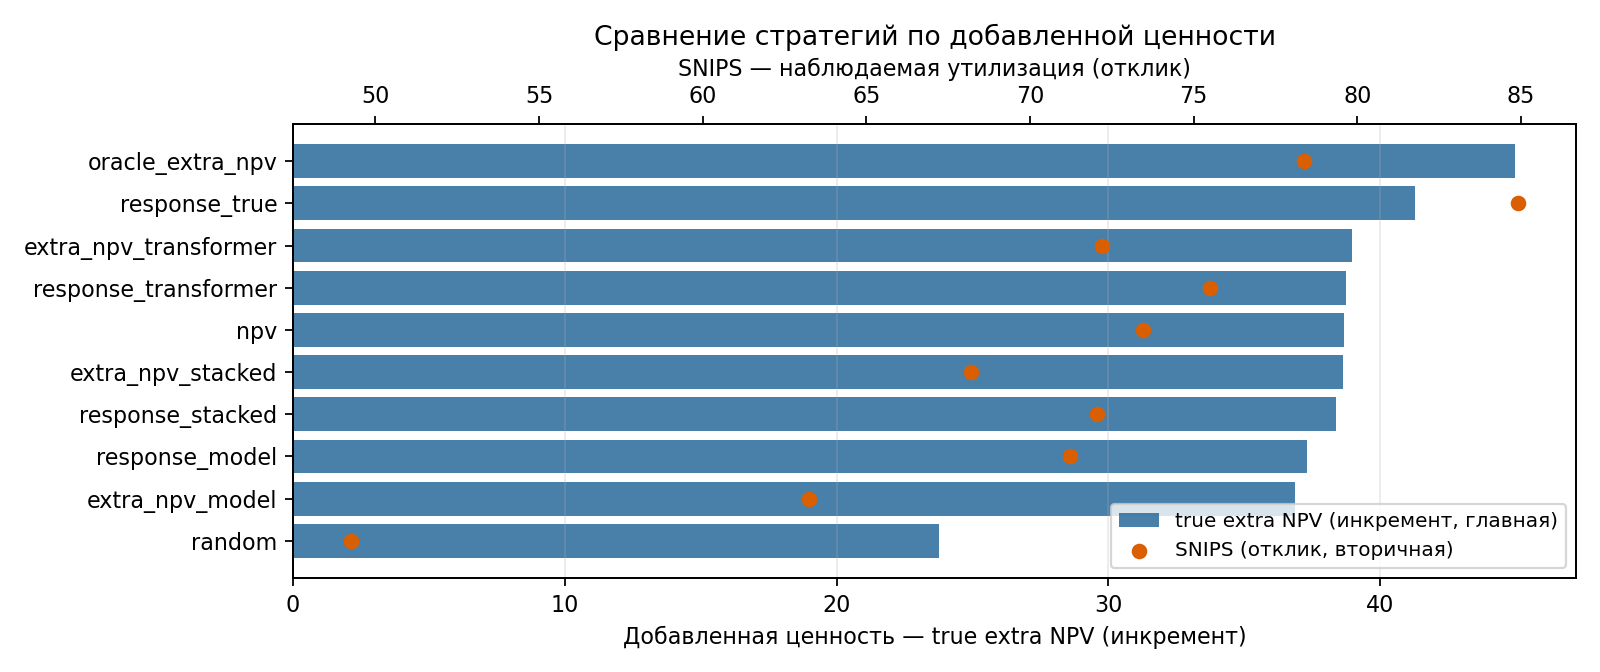
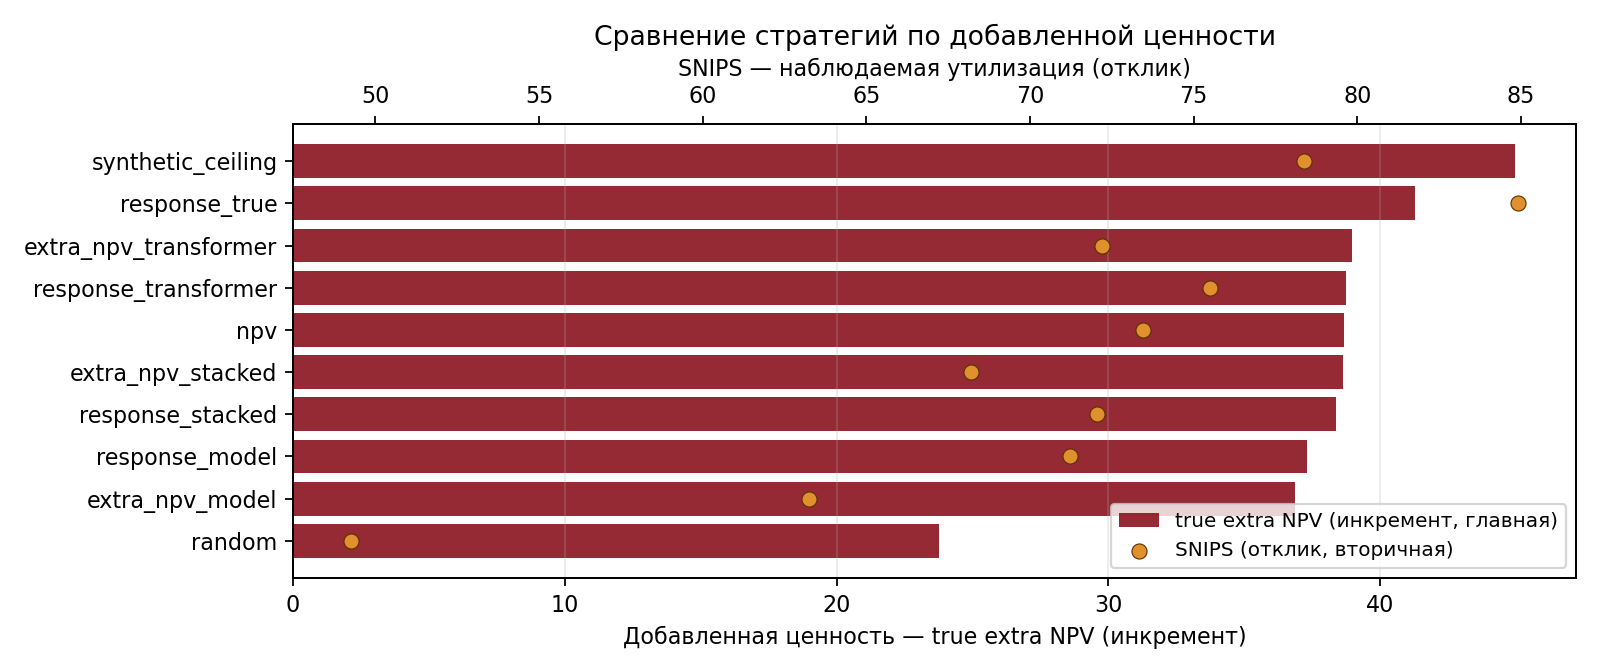
Add presentaion, calivration tests, bug fixes

diff --git a/tests/test_calibration.py b/tests/test_calibration.py
@@ -1,0 +1,63 @@
+"""Прямой юнит-тест на stacking-калибровку.
+
+Проверяет, что `calibrate_stacked_scores` — это настоящая per-arm Platt-калибровка:
+она подбирает отображение по калибровочному срезу и реально меняет прогнозы, а не
+возвращает их как есть.
+"""
+
+import numpy as np
+import pandas as pd
+
+from utils.models import calibrate_stacked_scores
+
+
+def _make_scored(n_calib: int = 200, n_test: int = 200, seed: int = 0) -> pd.DataFrame:
+    rng = np.random.default_rng(seed)
+    n = n_calib + n_test
+    shown = np.array(([True] * (n_calib // 2) + [False] * (n_calib // 2))
+                     + ([True] * (n_test // 2) + [False] * (n_test // 2)))
+    p1 = rng.uniform(0.2, 0.8, n)
+    p0 = rng.uniform(0.1, 0.6, n)
+    # факт утилизации коррелирует с прогнозом (обе головы имеют оба класса на calib)
+    utilized = np.where(shown, (p1 > 0.5).astype(int), (p0 > 0.35).astype(int))
+    return pd.DataFrame(
+        {
+            "split": ["calib"] * n_calib + ["test"] * n_test,
+            "shown": shown,
+            "is_available": True,
+            "utilized": utilized,
+            "stacked_p1_hat": p1,
+            "stacked_p0_hat": p0,
+            "stacked_p_util_hat": p1,
+        }
+    )
+
+
+def test_calibration_changes_scores() -> None:
+    scored = _make_scored()
+    out = calibrate_stacked_scores(scored)
+    # калибровка реально меняет прогнозы обеих голов (не no-op и не ансамбль-заглушка)
+    assert not np.allclose(out["stacked_p1_hat"].to_numpy(), scored["stacked_p1_hat"].to_numpy())
+    assert not np.allclose(out["stacked_p0_hat"].to_numpy(), scored["stacked_p0_hat"].to_numpy())
+
+
+def test_calibration_outputs_valid_probabilities_and_uplift() -> None:
+    scored = _make_scored()
+    out = calibrate_stacked_scores(scored)
+    assert out["stacked_p1_hat"].between(0.0, 1.0).all()
+    assert out["stacked_p0_hat"].between(0.0, 1.0).all()
+    # uplift пересчитан как разность откалиброванных голов
+    assert np.allclose(
+        out["stacked_uplift_hat"].to_numpy(),
+        (out["stacked_p1_hat"] - out["stacked_p0_hat"]).to_numpy(),
+    )
+    # p_util совпадает с откалиброванной головой показа
+    assert np.allclose(out["stacked_p_util_hat"].to_numpy(), out["stacked_p1_hat"].to_numpy())
+
+
+def test_calibration_noop_without_calib_split() -> None:
+    scored = _make_scored()
+    scored["split"] = "test"  # нет ни одного среза из calib_splits
+    out = calibrate_stacked_scores(scored)
+    # без калибровочного среза функция ничего не меняет
+    assert np.allclose(out["stacked_p1_hat"].to_numpy(), scored["stacked_p1_hat"].to_numpy())

diff --git a/tests/test_pipeline.py b/tests/test_pipeline.py
@@ -37,7 +37,7 @@ def test_synthetic_generator_contract() -> None:
     assert checks["no_future_events_in_history"]
     assert checks["fixed_sequence_length"]
     assert checks["non_negative_recency_bucket"]
-    assert checks["oracle_has_signal"]
+    assert checks["ceiling_has_signal"]
 
 
 def test_greedy_policies_use_unique_groups() -> None:
@@ -86,7 +86,7 @@ def test_policy_evaluation_returns_core_metrics() -> None:
     assert {"ips_value", "snips_value", "dr_value", "ess", "matched_rows", "true_extra_npv_value"}.issubset(
         result.columns
     )
-    assert set(result["policy_name"]) == {"random", "npv", "response_true", "oracle_extra_npv"}
+    assert set(result["policy_name"]) == {"random", "npv", "response_true", "synthetic_ceiling"}
     assert (result["matched_rows"] > 0).all()
     assert (result["ess"] > 0).all()
 
@@ -188,8 +188,8 @@ def test_default_seed_policy_sanity_on_test_split() -> None:
     evaluation = result["evaluation"]
 
     random_true = float(evaluation.loc[evaluation["policy_name"] == "random", "true_extra_npv_value"].iloc[0])
-    oracle_true = float(
-        evaluation.loc[evaluation["policy_name"] == "oracle_extra_npv", "true_extra_npv_value"].iloc[0]
+    ceiling_true = float(
+        evaluation.loc[evaluation["policy_name"] == "synthetic_ceiling", "true_extra_npv_value"].iloc[0]
     )
     model_true = evaluation.loc[
         evaluation["policy_name"].isin(
@@ -205,7 +205,7 @@ def test_default_seed_policy_sanity_on_test_split() -> None:
         "true_extra_npv_value",
     ]
 
-    assert oracle_true == evaluation["true_extra_npv_value"].max()
+    assert ceiling_true == evaluation["true_extra_npv_value"].max()
     assert model_true.max() > random_true * 1.35
     assert "evaluation_all" in result
     assert result["evaluation"]["policy_name"].nunique() == result["evaluation_all"]["policy_name"].nunique()

diff --git a/article/crosssell_extra_npv_public.tex b/article/crosssell_extra_npv_public.tex
@@ -138,7 +138,7 @@ extra\_NPV_{ik}=
 
 \textbf{Исходные модели вероятности утилизации.} В модельном контуре есть три уровня. Градиентный бустинг обучается на табличной витрине: агрегированных признаках пары пользователь--категория, частотах и давностях событий, истории взаимодействий, признаках категории и клиента. Он устойчив на табличных данных и дает сильную базовую точку сравнения.
 
-Вторая модель, нейросетевая ранжирующая модель на базе трансформера, близка к two-tower архитектуре. Левая часть строит представление пользователя по последовательности событий: $h_i=\mathrm{Transformer}_\theta(events_i)$. Правая часть строит представление действия: для обычного прогноза это категория, а для uplift это пара ``категория--показ'', то есть эмбеддинг действия содержит и категорию $k$, и индикатор $z$. Выходная MLP-голова оценивает вероятность утилизации:
+Вторая модель, нейросетевая ранжирующая модель на базе BERT-like transformer encoder, близка к two-tower архитектуре. Левая часть строит представление пользователя по последовательности событий: $h_i=E_\theta(events_i)$. Правая часть строит представление действия: для обычного прогноза это категория, а для uplift это пара ``категория--показ'', то есть эмбеддинг действия содержит и категорию $k$, и индикатор $z$. Выходная MLP-голова оценивает вероятность утилизации:
 \[
 \hat p^{tr}_{ikz}=
 \sigm\!\left(G_\theta\left[h_i,a_{kz},h_i\odot a_{kz},|h_i-a_{kz}|\right]\right).
@@ -147,7 +147,7 @@ extra\_NPV_{ik}=
 
 \textbf{Uplift и гибридная модель.} Оценка uplift опирается на случайную раздачу, которая проводится каждый месяц на части аудитории внутри допустимого набора категорий и сохраняет те же ограничения, что и рабочая раздача. После запуска проверяются баланс предраздаточных признаков, доли назначений по категориям и группам, а также способность простой модели предсказывать факт показа по признакам до раздачи: $\AUC(\hat z(x_i))\approx 0.5$.
 
-На логах такой раздачи обучается S-learner: модель получает признаки пары пользователь--категория и индикатор показа $z$, а таргетом остается факт утилизации. Гибридная модель не заменяет трансформер, а добавляет его прогноз как признак в итоговый бустинг вместе с табличными признаками и индикатором показа. Для одной пары пользователь--категория модель запускается при $z=1$ и $z=0$; разность прогнозов формирует uplift и extra NPV:
+На логах такой раздачи обучается S-learner: модель получает признаки пары пользователь--категория и индикатор показа $z$, а таргетом остается факт утилизации. Гибридная модель не заменяет трансформер, а добавляет его прогноз как признак в итоговый бустинг вместе с табличными признаками и индикатором показа. Для одной пары пользователь--категория модель запускается при $z=1$ и $z=0$; разность прогнозов формирует uplift, а после умножения на NPV получается extra NPV:
 \[
 \hat\tau_{ik}=\hat p^{hyb}_{ik,1}-\hat p^{hyb}_{ik,0},
 \qquad
@@ -167,7 +167,7 @@ extra\_NPV_{ik}=\NPV_k\hat\tau_{ik}.
 \]
 Здесь $y_i$ обозначает наблюдаемый результат: утилизацию или нормированную ценность. Если раздача строится последовательно по слотам, вероятность набора восстанавливается из условных вероятностей назначений. Дополнительно считаются нормированная IPS-оценка, эффективный размер выборки, число совпадений, бутстреп-интервалы и диагностика uplift.
 
-Публичный репозиторий не содержит рабочих данных, точных NPV и внутреннего кода. В нем реализована синтетическая реконструкция: генератор пользователей, категорий, событий, случайной раздачи и неоднородного эффекта показа. В demo и notebook сравниваются случайный выбор, ранжирование по NPV, по $\hat p(u_{ik}=1)\cdot \NPV_k$, по extra NPV и выбор по истинному эффекту. В закрытом контуре последовательностный подход и extra NPV-ранжирование дают лучший порядок качества; открытая синтетика воспроизводит эту логику без раскрытия метрик. Выбор по истинному эффекту возможен только в синтетике и служит проверкой, что модель учится выбирать добавочную ценность, а не общую активность пользователя. Открытая версия снабжена облегченной, но реально запускаемой инженерной обвязкой: модели написаны на numpy/pandas без тяжелых библиотек, сборка упакована в Docker, CI на GitHub Actions прогоняет тесты при каждом изменении, а пример Airflow DAG воспроизводит ту же последовательность шагов поверх синтетики. Бустинг и трансформер в открытой версии — намеренно упрощенные mini-реализации: они демонстрируют принцип extra NPV, а не рабочие метрики. Главная метрика оценки — добавленная ценность (инкремент от показа), а не наблюдаемая утилизация; по ней синтетический оракул задает потолок, а лучшая обучаемая стратегия опирается на последовательностную модель.
+Публичный репозиторий не содержит рабочих данных, точных NPV и внутреннего кода. В нем реализована синтетическая реконструкция: генератор пользователей, категорий, событий, случайной раздачи и неоднородного эффекта показа. В demo и notebook сравниваются случайный выбор, ранжирование по NPV, по $\hat p(u_{ik}=1)\cdot \NPV_k$, по extra NPV и выбор по истинному эффекту. В закрытом контуре последовательностный подход и extra NPV-ранжирование дают лучший порядок качества; открытая синтетика воспроизводит эту логику без раскрытия метрик. Выбор по истинному эффекту возможен только в синтетике и служит проверкой, что модель учится выбирать добавочную ценность, а не общую активность пользователя. Открытая версия снабжена облегченной, но реально запускаемой инженерной обвязкой: модели написаны на numpy/pandas без тяжелых библиотек, сборка упакована в Docker, CI на GitHub Actions прогоняет тесты при каждом изменении, а пример Airflow DAG воспроизводит ту же последовательность шагов поверх синтетики. Бустинг и трансформер в открытой версии — намеренно упрощенные mini-реализации: они демонстрируют принцип extra NPV, а не рабочие метрики. Главная метрика оценки — добавленная ценность (инкремент от показа), а не наблюдаемая утилизация; по ней синтетический потолок задает верхнюю границу, а лучшая обучаемая стратегия опирается на последовательностную модель.
 
 \section{Инженерная часть}
 
@@ -234,6 +234,6 @@ MCP-коннекторы и корпоративные доступы я не р
 
 Мой вклад включает формализацию CrossSell-раздачи как задачи ранжирования с ограничениями, разработку и сравнение бустинга и трансформерной модели, построение гибридной схемы со стекингом, внедрение оценки extra NPV для выбора категорий, проверку случайного логирования и создание открытой синтетической реконструкции. Продуктовые правила, бизнес-метрики и запуск раздач обсуждаются совместно с менеджерами и аналитиками; модельная постановка и эксперименты находятся в моей зоне ответственности.
 
-Следующий этап развития -- для части продуктов перейти от выбора категории к совместному выбору категории и ставки скидки. Для каждой пары пользователь--категория можно сравнивать несколько уровней скидки и выбирать вариант, который максимизирует extra NPV за вычетом ожидаемой стоимости с учетом бюджетного ограничения. Такой переход сохраняет правила доступности, разнообразия набора и проверку качества на случайных логах.
+Следующий этап развития -- для части продуктов перейти от выбора категории к совместному выбору категории и ставки скидки. Для каждой пары пользователь--категория можно сравнивать несколько уровней скидки и выбирать вариант, который максимизирует extra NPV за вычетом ожидаемой стоимости с учетом бюджетного ограничения. Такой переход сохраняет правила доступности, разнообразия набора и проверку качества на случайных логах. Отдельное направление развития -- интеграция других uplift-моделей (R-learner, DR-learner) для более надежной оценки эффекта показа.
 
 \end{document}

diff --git a/utils/plots.py b/utils/plots.py
@@ -38,7 +38,7 @@ def plot_policy_comparison(evaluation: pd.DataFrame, output_path: str | Path) ->
     out.parent.mkdir(parents=True, exist_ok=True)
 
     fig, ax = plt.subplots(figsize=(10, max(4, 0.42 * len(plot_frame))))
-    bars = ax.barh(y_pos, plot_frame["true_extra_npv_value"], color="#2f6f9f", alpha=0.88,
+    bars = ax.barh(y_pos, plot_frame["true_extra_npv_value"], color="#8c1822", alpha=0.92,
                    label="true extra NPV (инкремент, главная)")
     ax.set_yticks(y_pos, labels=labels)
     ax.set_xlabel("Добавленная ценность — true extra NPV (инкремент)")
@@ -46,7 +46,8 @@ def plot_policy_comparison(evaluation: pd.DataFrame, output_path: str | Path) ->
     ax.grid(axis="x", alpha=0.25)
 
     ax2 = ax.twiny()
-    pts = ax2.scatter(plot_frame["snips_value"], y_pos, color="#d95f02", zorder=3,
+    pts = ax2.scatter(plot_frame["snips_value"], y_pos, color="#e0902c", zorder=3,
+                      edgecolors="#5a3000", linewidths=0.5, s=46,
                       label="SNIPS (отклик, вторичная)")
     ax2.set_xlabel("SNIPS — наблюдаемая утилизация (отклик)")
 
@@ -71,9 +72,10 @@ def plot_score_distributions(scored: pd.DataFrame, output_path: str | Path) -> P
     out = Path(output_path)
     out.parent.mkdir(parents=True, exist_ok=True)
 
+    palette = {"p_util_hat": "#8c1822", "transformer_p_util_hat": "#e0902c", "stacked_p_util_hat": "#5a6b7a"}
     fig, ax = plt.subplots(figsize=(9, 5))
     for col in score_columns:
-        ax.hist(scored[col], bins=30, alpha=0.45, density=True, label=col)
+        ax.hist(scored[col], bins=30, alpha=0.5, density=True, label=col, color=palette.get(col))
     ax.set_xlabel("Прогноз вероятности утилизации")
     ax.set_ylabel("Плотность")
     ax.set_title("Распределения модельных скорингов")

diff --git a/utils/policies.py b/utils/policies.py
@@ -172,12 +172,12 @@ def make_response_true_policy(candidate_frame: pd.DataFrame, n_slots: int = 3) -
     )
 
 
-def make_oracle_extra_npv_policy(candidate_frame: pd.DataFrame, n_slots: int = 3) -> pd.DataFrame:
+def make_synthetic_ceiling_policy(candidate_frame: pd.DataFrame, n_slots: int = 3) -> pd.DataFrame:
     return make_extra_npv_policy(
         candidate_frame,
         p1_col="p1_true",
         p0_col="p0_true",
-        policy_name="oracle_extra_npv",
+        policy_name="synthetic_ceiling",
         n_slots=n_slots,
     )
 
@@ -188,7 +188,7 @@ def make_policy_family(candidate_frame: pd.DataFrame, n_slots: int = 3, seed: in
         make_random_policy(candidate_frame, n_slots=n_slots, seed=seed),
         make_npv_policy(candidate_frame, n_slots=n_slots),
         make_response_true_policy(candidate_frame, n_slots=n_slots),
-        make_oracle_extra_npv_policy(candidate_frame, n_slots=n_slots),
+        make_synthetic_ceiling_policy(candidate_frame, n_slots=n_slots),
     ]
     return pd.concat(policies, ignore_index=True)
 

diff --git a/utils/data.py b/utils/data.py
@@ -842,12 +842,12 @@ def validate_synthetic_dataset(dataset: SyntheticDataset, config: SyntheticConfi
     )
     non_negative_recency = bool((sequence.loc[non_padding, "recency_bucket"] >= 0).all())
 
-    oracle_positive = assignments["extra_npv_true"].max() > assignments["extra_npv_true"].mean()
+    ceiling_positive = assignments["extra_npv_true"].max() > assignments["extra_npv_true"].mean()
     return {
         "fixed_slots": bool((shown_per_unit == config.n_slots).all()),
         "positive_propensity_for_shown": bool((assignments.loc[assignments["shown"], "show_propensity"] > 0).all()),
         "no_future_events_in_history": no_future_events_in_history,
         "fixed_sequence_length": fixed_sequence_length,
         "non_negative_recency_bucket": non_negative_recency,
-        "oracle_has_signal": bool(oracle_positive),
+        "ceiling_has_signal": bool(ceiling_positive),
     }

diff --git a/utils/evaluation.py b/utils/evaluation.py
@@ -27,7 +27,7 @@ DR_Q_COLUMNS_BY_POLICY = {
     "random": ["p1_hat"],
     "npv": ["p1_hat"],
     "response_true": ["p1_true"],
-    "oracle_extra_npv": ["p1_true"],
+    "synthetic_ceiling": ["p1_true"],
 }
 
 

diff --git a/README.md b/README.md
@@ -8,17 +8,19 @@
 Репозиторий воспроизводит инженерную и ML-логику задачи, а не рабочие данные
 или производственный код.
 
+Презентация защиты (NDA-safe CrossSell-версия) — в [`presentation/`](presentation/crosssell_presentation.pdf).
+
 ## Результаты с первого взгляда (demo-конфигурация, `seed=42`)
 
 Стратегия максимизирует не наблюдаемую утилизацию, а **инкремент от показа**
 (extra NPV — добавленные деньги). Поэтому главная метрика — `true extra NPV`
-(истинный эффект), а `SNIPS` (ценность отклика) — вторичная. `oracle_extra_npv`
+(истинный эффект), а `SNIPS` (ценность отклика) — вторичная. `synthetic_ceiling`
 задаёт потолок, `random` — нижнюю границу, а среди обучаемых стратегий лучшая —
 `extra_npv_transformer` (она же лучшая по uplift alignment).
 
 | Стратегия | true extra NPV (главная) | SNIPS (отклик) |
 |---|---:|---:|
-| `oracle_extra_npv` *(синтетический потолок)* | **44.96** | 78.37 |
+| `synthetic_ceiling` *(синтетический потолок)* | **44.96** | 78.37 |
 | **`extra_npv_transformer` (лучшая обучаемая)** | **38.97** | 72.21 |
 | `response_transformer` | 38.76 | 75.50 |
 | `extra_npv_stacked` | 38.62 | 68.20 |
@@ -84,7 +86,7 @@ self-attention, а затем объединяются с embedding катего
 - обучение табличного бустинга, S-learner для uplift, mini-transformer encoder по событиям и stacking-модели;
 - скоринг всех пар пользователь--категория;
 - выбор top-3 категорий с учетом доступности и запрета на повтор `group_id`;
-- сравнение random, NPV-only, response ranking, extra NPV и синтетического оракула;
+- сравнение random, NPV-only, response ranking, extra NPV и синтетического потолка;
 - оффлайн-оценка стратегий по randomized logs.
 
 ## Структура репозитория
@@ -103,6 +105,9 @@ synthetic_crosssell_extra_npv_repo/
 ├── article/
 │   ├── crosssell_extra_npv_public.tex
 │   └── crosssell_extra_npv_public.pdf
+├── presentation/
+│   ├── crosssell_presentation.pptx
+│   └── crosssell_presentation.pdf
 ├── docs/
 │   ├── event_history_contract.md
 │   ├── final_demo_results.md
@@ -158,12 +163,12 @@ synthetic_crosssell_extra_npv_repo/
 1. Сгенерировать синтетических пользователей, категории и исторические события.
 2. Сформировать преселект доступных категорий для каждой пары пользователь--период.
 3. Провести рандомизированный показ внутри тех же продуктовых ограничений, которые будут использоваться стратегиями.
-4. Сгенерировать потенциальные исходы `p0`, `p1`, наблюдаемую утилизацию и синтетический эффект для оракула.
+4. Сгенерировать потенциальные исходы `p0`, `p1`, наблюдаемую утилизацию и синтетический эффект для потолка.
 5. Обучить табличную модель отклика и S-learner для uplift: одна outcome-модель получает признаки пары пользователь--категория и флаг показа `shown_feature`.
 6. Обучить mini-transformer encoder истории клиента: события превращаются в токены, проходят через self-attention и attention pooling, затем объединяются с embedding категории.
 7. Обучить stacking-модель, которая использует табличные признаки и трансформерные прогнозы.
 8. Проскорить все пары пользователь--категория и жадно собрать топ-3 категории с разными `group_id`.
-9. Оценить стратегии через IPS/SNIPS и сравнение с синтетическим оракулом.
+9. Оценить стратегии через IPS/SNIPS и сравнение с синтетическим потолком.
 
 ## Стратегии
 
@@ -173,7 +178,7 @@ synthetic_crosssell_extra_npv_repo/
 - `extra_npv_model`: приоритизация по `NPV * (p1 - p0)`;
 - `response_transformer` и `extra_npv_transformer`: те же стратегии, но на прогнозах трансформерной ветки;
 - `response_stacked` и `extra_npv_stacked`: стратегии на stacking-модели;
-- `random`, `npv`, `response_true`, `oracle_extra_npv`: базовые и оракульные стратегии для проверки качества на синтетике.
+- `random`, `npv`, `response_true`, `synthetic_ceiling`: базовые и граничные стратегии для проверки качества на синтетике.
 
 Стратегия выбирает категории жадно: берет лучшую доступную категорию, удаляет из преселекта все категории с тем же `group_id`, затем выбирает следующую до топ-3.
 
@@ -181,16 +186,16 @@ synthetic_crosssell_extra_npv_repo/
 
 В синтетике есть несколько типов качества:
 
-- `true_extra_npv_value` (**главная метрика**): синтетический oracle-сигнал истинного инкремента от показа — именно его максимизирует extra NPV-ранжирование;
+- `true_extra_npv_value` (**главная метрика**): синтетический сигнал потолка истинного инкремента от показа — именно его максимизирует extra NPV-ранжирование;
 - `SNIPS/IPS` (**вторичная**): оценка ценности *отклика* (наблюдаемой утилизации) по randomized logs; по ней естественно лидируют response-стратегии;
 - `DR`: диагностическая оценка в стиле doubly robust на отложенном периоде;
 - `roc_auc_shown`: causal overlap-проверка — насколько факт показа предсказуем по предраздаточным признакам (должна быть ≈0.5).
 
-Главная метрика — добавленная ценность (`true_extra_npv_value`), потому что цель раздачи — инкремент, а не наблюдаемая утилизация. По ней ожидаемая картина: `oracle_extra_npv` задаёт потолок, `random` — низ, а среди обучаемых стратегий лучшая — `extra_npv_transformer`. По `SNIPS` (ценность отклика) впереди response-стратегии — это не недостаток, а суть extra NPV: жертвовать частью наблюдаемой утилизации ради добавленной ценности.
+Главная метрика — добавленная ценность (`true_extra_npv_value`), потому что цель раздачи — инкремент, а не наблюдаемая утилизация. По ней ожидаемая картина: `synthetic_ceiling` задаёт потолок, `random` — низ, а среди обучаемых стратегий лучшая — `extra_npv_transformer`. По `SNIPS` (ценность отклика) впереди response-стратегии — это не недостаток, а суть extra NPV: жертвовать частью наблюдаемой утилизации ради добавленной ценности.
 
 Для demo (`seed=42`) типичный sanity check (по `true_extra_npv_value`):
 
-- `oracle_extra_npv`: максимум, около `45` (синтетический потолок);
+- `synthetic_ceiling`: максимум, около `45` (синтетический потолок);
 - `extra_npv_transformer`: лучшая обучаемая, около `39`, и лучший uplift alignment (corr ≈ `0.58`);
 - `random`: внизу, около `24`;
 - overlap `roc_auc_shown` ≈ `0.49–0.50` — рандомизация чистая.
@@ -287,7 +292,7 @@ CI на GitHub Actions ([`.github/workflows/ci.yml`](.github/workflows/ci.yml))
 Основные файлы в `artifacts/notebook_demo` или `artifacts/run_01`:
 
 - `README.md`: короткая сводка запуска и топ стратегий;
-- `evaluation.csv` и `evaluation_test.csv`: IPS/SNIPS, DR, ESS, бутстреп-интервалы и синтетическое oracle-сравнение;
+- `evaluation.csv` и `evaluation_test.csv`: IPS/SNIPS, DR, ESS, бутстреп-интервалы и синтетическое сравнение с потолком;
 - `evaluation_all.csv`: такая же диагностика на всех split для sanity check;
 - `model_quality.csv`: AUC, Average Precision и Brier для модельных голов;
 - `uplift_alignment.csv`: корреляция predicted uplift с синтетическим истинным эффектом;

diff --git a/docs/final_demo_results.md b/docs/final_demo_results.md
@@ -11,14 +11,14 @@ Demo-конфигурация: `seed=42`, `users=80`, `categories=12`, `periods=
 ## Главная метрика — добавленная ценность (true extra NPV)
 
 Цель стратегии — не наблюдаемая утилизация, а **инкремент от показа** (extra NPV).
-Поэтому ведущая метрика — `true_extra_npv_value` (синтетический oracle-сигнал
+Поэтому ведущая метрика — `true_extra_npv_value` (синтетический сигнал потолка
 истинного эффекта). `snips_value` показан рядом как **вторичная** метрика: это
 оценка ценности *отклика* (наблюдаемая утилизация), и по ней естественно
 лидируют response-стратегии — это ожидаемо, а не недостаток extra NPV.
 
 | Стратегия | true extra NPV ↓ | SNIPS (отклик) |
 |---|---:|---:|
-| `oracle_extra_npv` *(синтетический потолок)* | **44.96** | 78.37 |
+| `synthetic_ceiling` *(синтетический потолок)* | **44.96** | 78.37 |
 | `response_true` *(чит: истинный p1)* | 41.30 | 84.90 |
 | **`extra_npv_transformer` (лучшая обучаемая)** | **38.97** | 72.21 |
 | `response_transformer` | 38.76 | 75.50 |
@@ -47,7 +47,7 @@ Demo-конфигурация: `seed=42`, `users=80`, `categories=12`, `periods=
 
 ## Как читать
 
-- **Принцип extra NPV доказан:** `oracle_extra_npv` приносит максимальный истинный
+- **Принцип extra NPV доказан:** `synthetic_ceiling` приносит максимальный истинный
   инкремент (44.96), заметно выше любой обучаемой стратегии; `random` — внизу (23.78).
 - **Трансформер лучший среди обучаемых:** `extra_npv_transformer` даёт максимальный
   истинный инкремент среди рабочих моделей (38.97) и лучший uplift alignment
@@ -68,5 +68,5 @@ Demo-конфигурация: `seed=42`, `users=80`, `categories=12`, `periods=
 на numpy (прозрачные, без тяжёлых зависимостей, NDA-safe). Они демонстрируют
 **принцип** и инженерный контур, а не рабочие метрики; абсолютные значения
 синтетические. В рабочем контуре модели полноразмерные, и относительная сила
-моделей может отличаться. `oracle_extra_npv` и `response_true` используют скрытые
+моделей может отличаться. `synthetic_ceiling` и `response_true` используют скрытые
 истинные `p0_true`/`p1_true` и доступны только в синтетике как границы качества.

diff --git a/docs/event_history_contract.md b/docs/event_history_contract.md
@@ -273,7 +273,7 @@ treatment_effect(user, category, history) -> p1 - p0
 | `utilized` | наблюдаемый результат в таргетном окне |
 | `p0_true` | синтетическая истинная вероятность без показа |
 | `p1_true` | синтетическая истинная вероятность с показом |
-| `extra_npv_true` | значение для оракула: `NPV * (p1_true - p0_true)` |
+| `extra_npv_true` | значение для потолка: `NPV * (p1_true - p0_true)` |
 
 Рандомизация должна соблюдать продуктовые ограничения:
 
@@ -291,5 +291,5 @@ treatment_effect(user, category, history) -> p1 - p0
 - текущий показ не попадает в историю трансформера;
 - вероятности назначения положительны для поддержанных действий;
 - рандомизированный показ плохо предсказывается по признакам до раздачи;
-- стратегия-оракул лучше случайной стратегии на синтетической валидации;
+- стратегия-потолок лучше случайной стратегии на синтетической валидации;
 - ранжирование по отклику не совпадает полностью с uplift-ранжированием.

diff --git a/docs/nda_boundary.md b/docs/nda_boundary.md
@@ -41,7 +41,7 @@
 4. uplift model ранжирует по `NPV * (p1 - p0)`;
 5. слой выбора собирает валидный топ-3 с учетом `group_id`;
 6. category-level и set-level IPS/SNIPS оценивают стратегии на логах;
-7. synthetic oracle задает верхнюю границу качества в эксперименте.
+7. synthetic ceiling задает верхнюю границу качества в эксперименте.
 
 Такой формат позволяет обсуждать ML-постановку, причинную оценку, продуктовые
 ограничения и MLOps-логику без раскрытия защищенной информации.